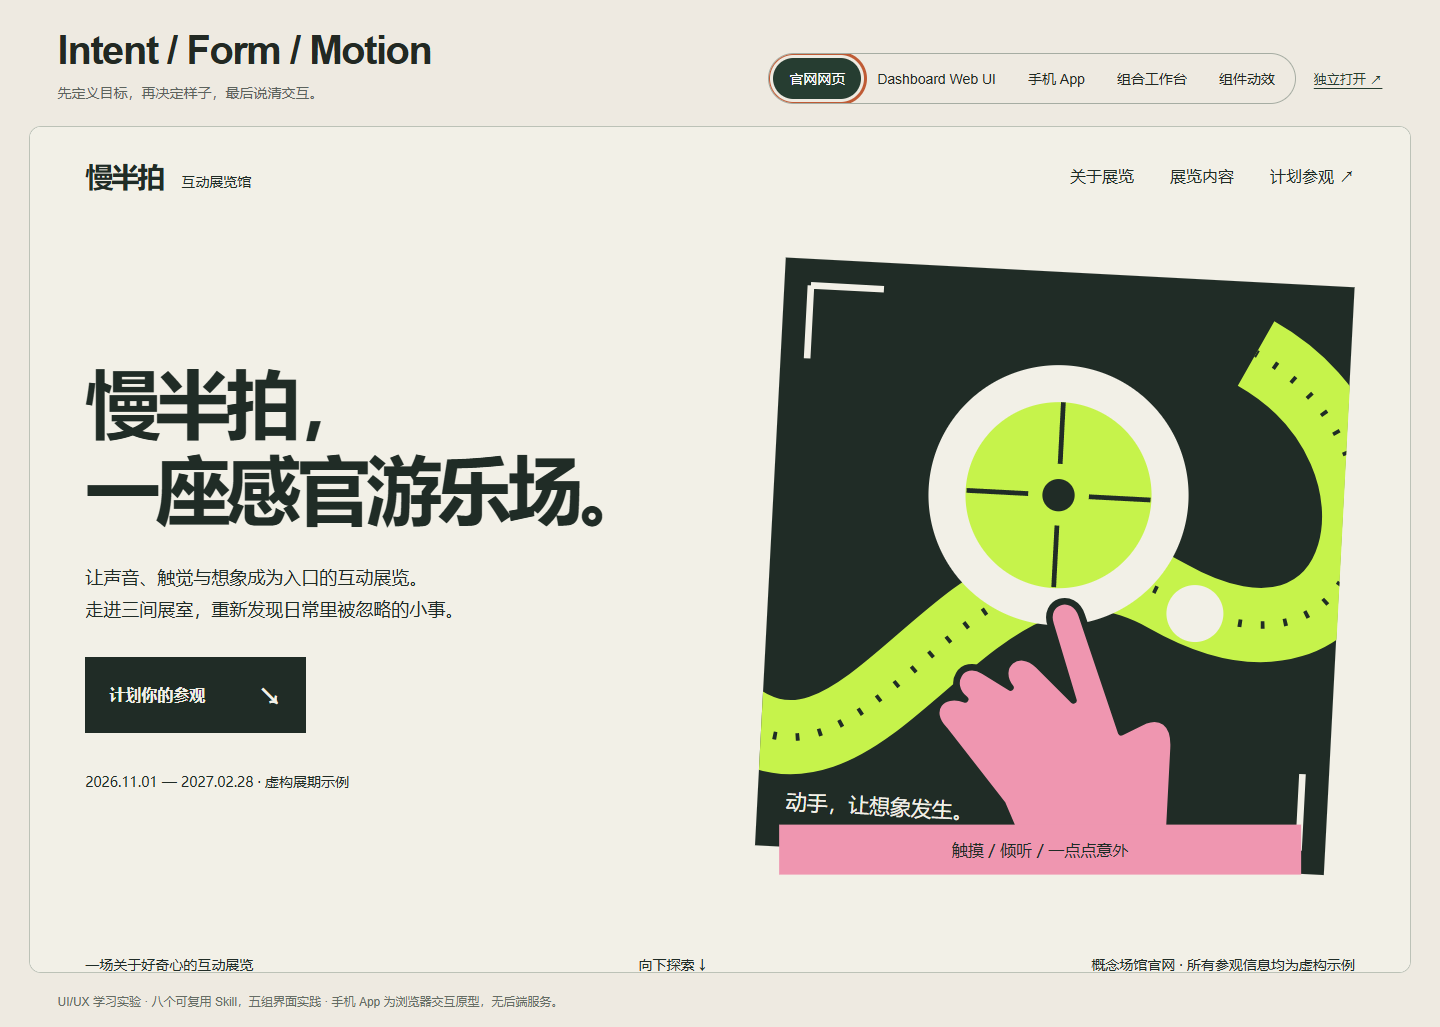
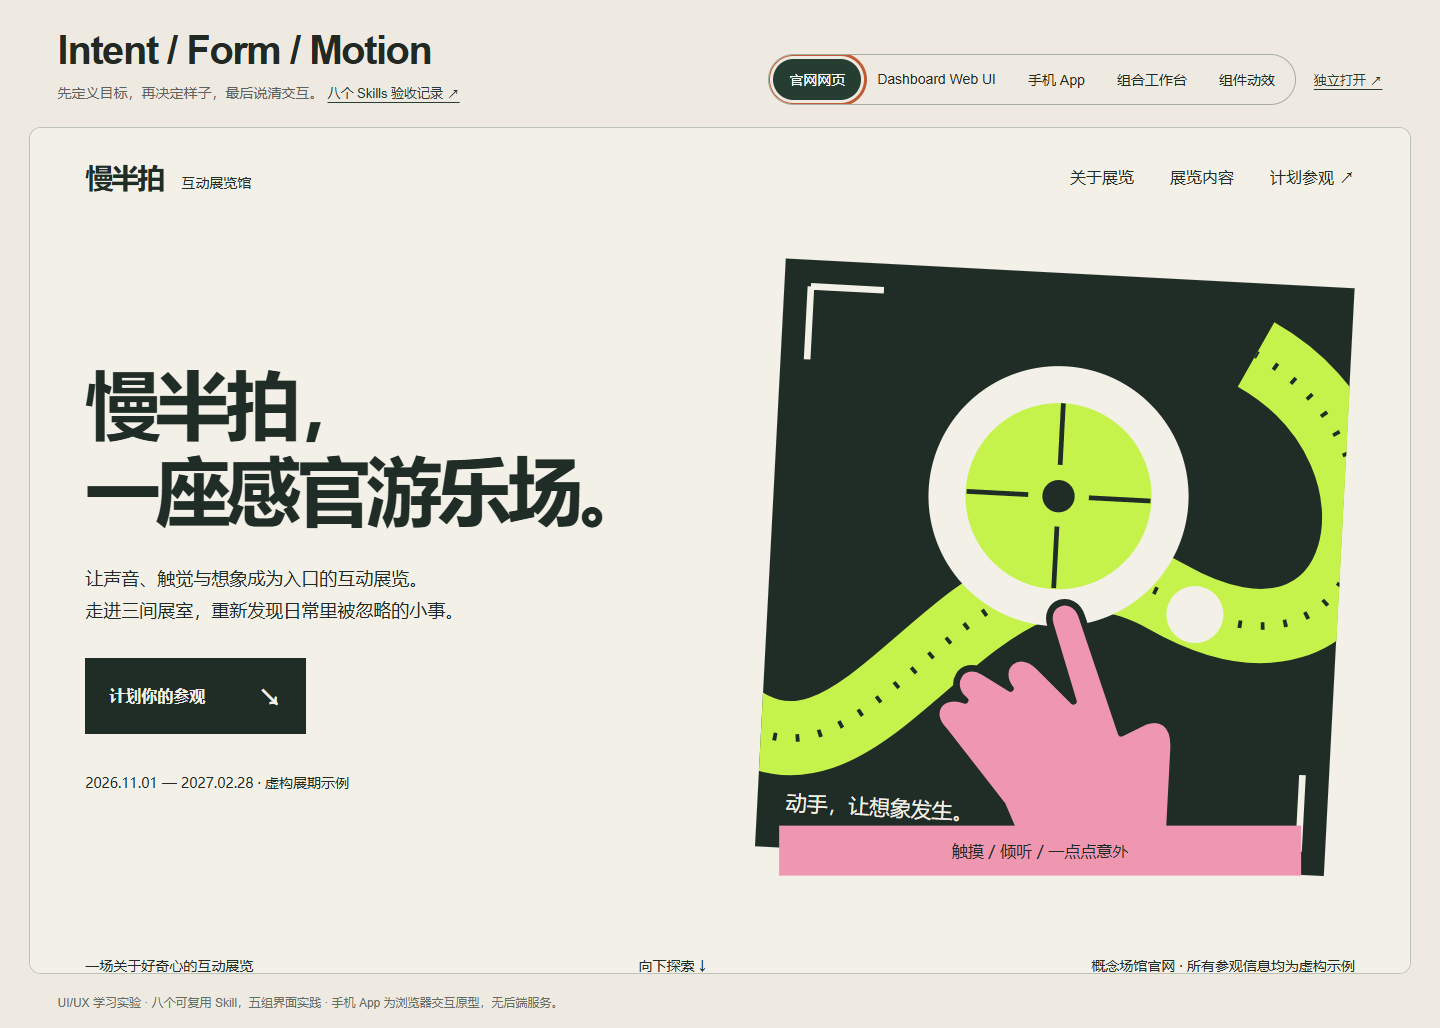
Link eight-skill validation evidence from the live showcase

diff --git a/docs/index.html b/docs/index.html
@@ -1,6 +1,6 @@
 <!doctype html>
 <html lang="zh-CN"><head><meta charset="utf-8"><meta name="viewport" content="width=device-width,initial-scale=1"><title>Intent / Form / Motion — UIUX Lab</title><style>
 *{box-sizing:border-box}body{margin:0;background:#eeeae1;color:#222923;font-family:Arial,"Microsoft YaHei",sans-serif}header{flex-wrap:wrap;max-width:1440px;margin:auto;padding:28px 4vw 22px;display:flex;align-items:end;justify-content:space-between;gap:24px}h1{font-size:clamp(24px,3vw,40px);letter-spacing:-1.5px;margin:0 0 9px}p{margin:0;color:#5c635d;font-size:14px;line-height:1.6}.controls{max-width:100%;display:flex;align-items:center;gap:18px;flex-wrap:wrap}.tabs{display:flex;max-width:100%;overflow-x:auto;border:1px solid #a6ada3;border-radius:40px;padding:4px;white-space:nowrap}button{border:0;background:none;color:inherit;border-radius:30px;padding:11px 16px;font-size:14px;cursor:pointer}button[aria-selected=true]{background:#263d31;color:white}a{color:#263d31;font-size:13px;text-underline-offset:4px}button:focus-visible,a:focus-visible{outline:3px solid #bf5b35;outline-offset:3px}main{margin:0 2vw 20px;border:1px solid #bcc2b7;border-radius:12px;overflow:hidden;background:#fff}iframe{display:block;width:100%;height:calc(100vh - 155px);min-height:650px;border:0}footer{max-width:1440px;margin:auto;padding:0 4vw 18px;font-size:12px;color:#666d65}@media(max-width:760px){header{align-items:start;flex-direction:column;padding:24px 5vw 18px;gap:18px}h1{letter-spacing:-.8px}.controls{width:100%;justify-content:space-between;gap:10px}button{padding:10px 12px;font-size:12px}.tabs{width:100%;justify-content:flex-start;border-radius:16px;flex-wrap:wrap}.tabs button{flex:1 0 auto}.controls{justify-content:flex-end}iframe{height:760px;min-height:0}main{margin:0 10px 18px}footer{line-height:1.7}}
-</style></head><body><header><div><h1>Intent / Form / Motion</h1><p>先定义目标，再决定样子，最后说清交互。</p></div><div class="controls"><div class="tabs" role="tablist" aria-label="选择演示"><button id="web-tab" role="tab" aria-selected="true" aria-controls="demo-panel" tabindex="0" data-demo="web">官网网页</button><button id="dashboard-tab" role="tab" aria-selected="false" aria-controls="demo-panel" tabindex="-1" data-demo="dashboard">Dashboard Web UI</button><button id="app-tab" role="tab" aria-selected="false" aria-controls="demo-panel" tabindex="-1" data-demo="app">手机 App</button><button id="studio-tab" role="tab" aria-selected="false" aria-controls="demo-panel" tabindex="-1" data-demo="studio">组合工作台</button><button id="components-tab" role="tab" aria-selected="false" aria-controls="demo-panel" tabindex="-1" data-demo="components">组件动效</button></div><a id="open-demo" href="demos/web/" target="_blank" rel="noopener">独立打开 ↗</a></div></header><main id="demo-panel" role="tabpanel" aria-labelledby="web-tab"><iframe id="demo" title="互动场馆官网演示" src="demos/web/"></iframe></main><footer>UI/UX 学习实验 · 八个可复用 Skill，五组界面实践 · 手机 App 为浏览器交互原型，无后端服务。</footer><script>
+</style></head><body><header><div><h1>Intent / Form / Motion</h1><p>先定义目标，再决定样子，最后说清交互。 <a href="https://github.com/harveyxiacn/uiux-intent-form-motion-lab/blob/main/SKILL-VALIDATION.md" target="_blank" rel="noopener">八个 Skills 验收记录 ↗</a></p></div><div class="controls"><div class="tabs" role="tablist" aria-label="选择演示"><button id="web-tab" role="tab" aria-selected="true" aria-controls="demo-panel" tabindex="0" data-demo="web">官网网页</button><button id="dashboard-tab" role="tab" aria-selected="false" aria-controls="demo-panel" tabindex="-1" data-demo="dashboard">Dashboard Web UI</button><button id="app-tab" role="tab" aria-selected="false" aria-controls="demo-panel" tabindex="-1" data-demo="app">手机 App</button><button id="studio-tab" role="tab" aria-selected="false" aria-controls="demo-panel" tabindex="-1" data-demo="studio">组合工作台</button><button id="components-tab" role="tab" aria-selected="false" aria-controls="demo-panel" tabindex="-1" data-demo="components">组件动效</button></div><a id="open-demo" href="demos/web/" target="_blank" rel="noopener">独立打开 ↗</a></div></header><main id="demo-panel" role="tabpanel" aria-labelledby="web-tab"><iframe id="demo" title="互动场馆官网演示" src="demos/web/"></iframe></main><footer>UI/UX 学习实验 · 八个可复用 Skill，五组界面实践 · 手机 App 为浏览器交互原型，无后端服务。</footer><script>
 const tabs=[...document.querySelectorAll('[role=tab]')],frame=document.querySelector('iframe'),panel=document.querySelector('main'),link=document.querySelector('#open-demo');function select(tab){tabs.forEach(t=>{t.setAttribute('aria-selected',String(t===tab));t.tabIndex=t===tab?0:-1});const name=tab.dataset.demo;frame.src=`demos/${name}/`;frame.title=({web:'互动场馆官网演示',dashboard:'Dashboard Web UI 工作台',app:'手机 App 交互原型',studio:'组合专业工作台',components:'组件与动效实验室'})[name];panel.setAttribute('aria-labelledby',tab.id);link.href=`demos/${name}/`;history.replaceState(null,'',name==='web'?location.pathname:'#'+name)}tabs.forEach((tab,i)=>{tab.addEventListener('click',()=>select(tab));tab.addEventListener('keydown',e=>{let n;if(e.key==='ArrowRight')n=(i+1)%tabs.length;if(e.key==='ArrowLeft')n=(i-1+tabs.length)%tabs.length;if(e.key==='Home')n=0;if(e.key==='End')n=tabs.length-1;if(n!==undefined){e.preventDefault();tabs[n].focus();select(tabs[n])}})});function route(){const target=tabs.find(t=>'#'+t.dataset.demo===location.hash)||tabs[0];select(target)}route();addEventListener('hashchange',route);
 </script></body></html>
